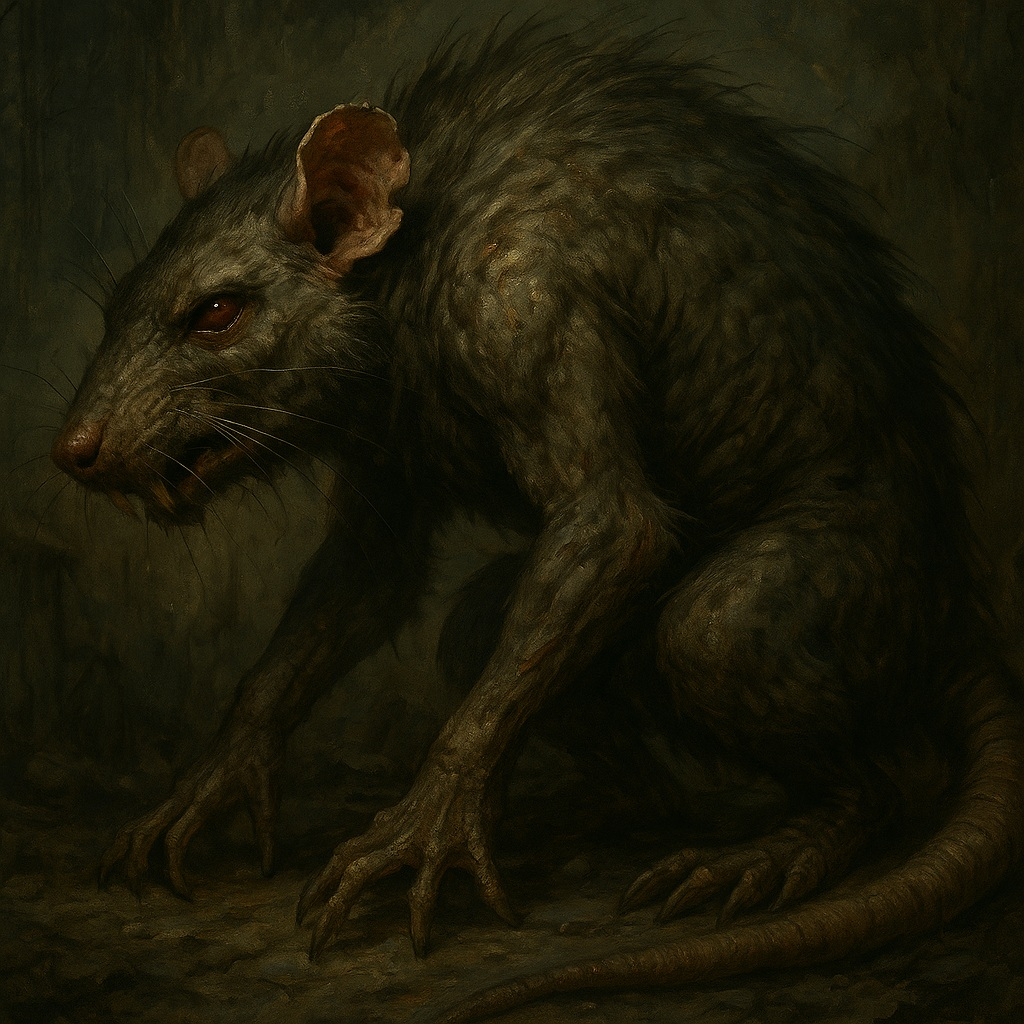
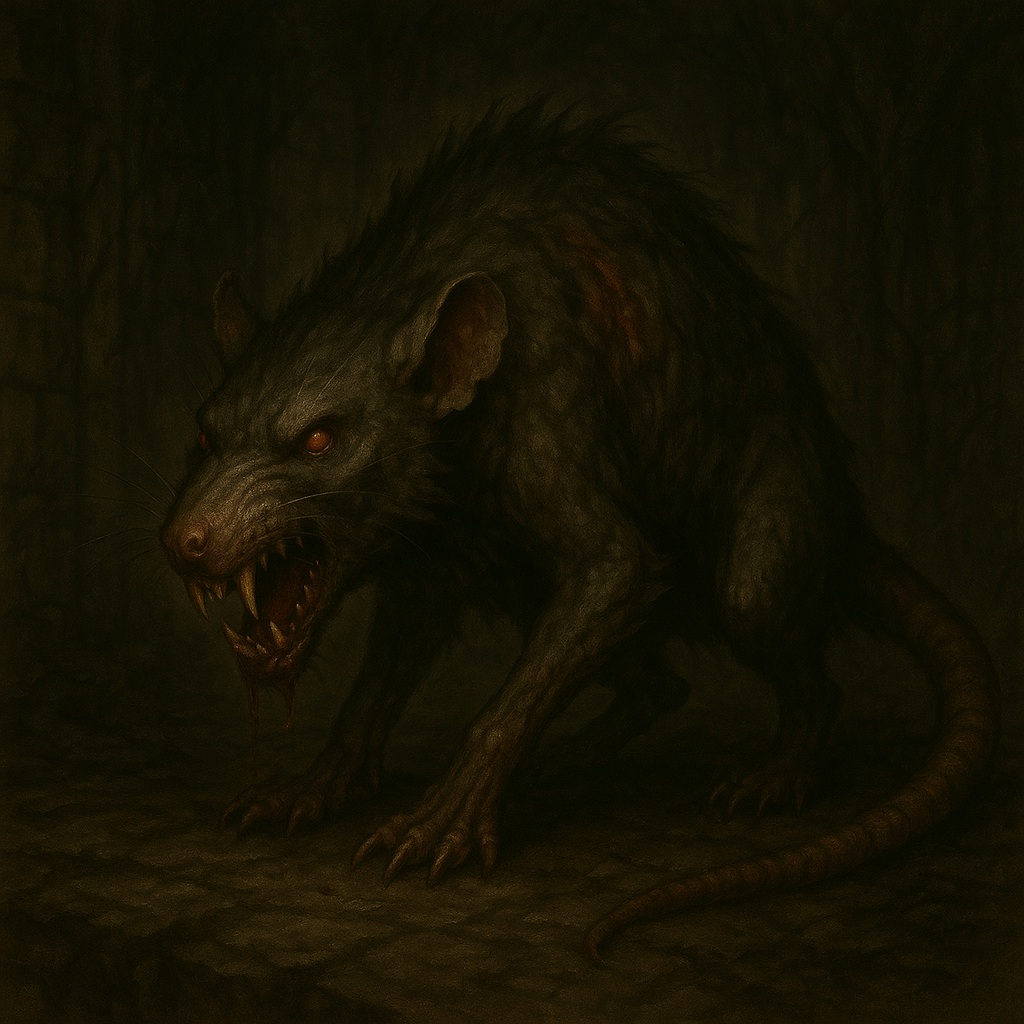
Add files via upload

diff --git a/locations.html b/locations.html
@@ -50,7 +50,7 @@
       <div>
         <h2>Morrowynn Forest</h2>
         <p>
-          A twisting sprawl of black pines and moss-slick stones.
+          Also named <strong>Ael Morath</strong> in old Kalendric. A twisting sprawl of black pines and moss-slick stones.
           Travelers vanish between the boles; only crows return.
         </p>
       </div>
@@ -66,9 +66,158 @@
         </p>
       </div>
     </section>
+
+    <section class="row">
+      <img src="img/vaelwynn_river.jpg" alt="Vaelwynn River">
+      <div>
+        <h2>Vaelwynn River</h2>
+        <p>
+          Coming Soon...
+        </p>
+      </div>
+    </section>
+
+    <section class="row">
+      <img src="img/ravendreach.jpg" alt="Ravendreach">
+      <div>
+        <h2>Ravendreach</h2>
+        <p>
+          Old Kalendric: <strong>Caer Ravnthirn</strong>.
+        </p>
+      </div>
+    </section>    
+
+    <section class="row">
+      <img src="img/the_bleak_reliquary.jpg" alt="The Bleak Reliquary">
+      <div>
+        <h2>The Bleak Reliquary</h2>
+        <p>
+          Coming Soon...
+        </p>
+      </div>
+    </section> 
+
+    <section class="row">
+      <img src="img/the_hushed_ruins.jpg" alt="The Hushed Ruins">
+      <div>
+        <h2>The Hushed Ruins</h2>
+        <p>
+          Coming Soon...
+        </p>
+      </div>
+    </section> 
+
+    <section class="row">
+      <img src="img/thirnwood.jpg" alt="Thirnwood">
+      <div>
+        <h2>Thirnwood</h2>
+        <p>
+          Coming Soon...
+        </p>
+      </div>
+    </section>
+
+    <section class="row">
+      <img src="img/the_stillbone_crypt.jpg" alt="The Stillbone Crypt">
+      <div>
+        <h2>The Stillbone Crypt</h2>
+        <p>
+          Old Kalendric: <strong>Thirn Vaelen</strong>.
+        </p>
+      </div>
+    </section>
+
+    <section class="row">
+      <img src="img/the_underreach.jpg" alt="The Underreach">
+      <div>
+        <h2>The Underreach</h2>
+        <p>
+          Old Kalendric: <strong>Thirn Vaelkor</strong>.
+        </p>
+      </div>
+    </section>
+
+    <section class="row">
+      <img src="img/pale_choir.jpg" alt="The Pale Choir">
+      <div>
+        <h2>The Pale Choir of Khaldreach</h2>
+        <p>
+          Old Kalendric: <strong>Khaldreach</strong>.
+        </p>
+      </div>
+    </section>
+
+    <section class="row">
+      <img src="img/the_thauren_spines.jpg" alt="The Thauren Spines">
+      <div>
+        <h2>The Thauren Spines</h2>
+        <p>
+          Coming Soon...
+        </p>
+      </div>
+    </section>
+
+    <section class="row">
+      <img src="img/korvhal_deep.jpg" alt="Korvhal Deep">
+      <div>
+        <h2>Korvhal Deep</h2>
+        <p>
+          Old Kalendric: <strong>Korvhal</strong>.
+        </p>
+      </div>
+    </section>
+
+    <section class="row">
+      <img src="img/aethervale.jpg" alt="Aethervale">
+      <div>
+        <h2>Aethervale</h2>
+        <p>
+          Coming Soon...
+        </p>
+      </div>
+    </section>
+
+    <section class="row">
+      <img src="img/wyrnshade.jpg" alt="Wyrnshade">
+      <div>
+        <h2>Wyrnshade</h2>
+        <p>
+          Coming Soon...
+        </p>
+      </div>
+    </section>
+
+    <section class="row">
+      <img src="img/skullhaven.jpg" alt="Skullhaven">
+      <div>
+        <h2>Skullhaven</h2>
+        <p>
+          Coming Soon...
+        </p>
+      </div>
+    </section>
+
+    <section class="row">
+      <img src="img/tir_volkaar.jpg" alt="Tir Volkaar">
+      <div>
+        <h2>Tir Volkaar</h2>
+        <p>
+          Old Kalendric: <strong>Tir Volkaar</strong>.
+        </p>
+      </div>
+    </section> 
+
+    <section class="row">
+      <img src="img/the_dawnsea.jpg" alt="The Dawnsea">
+      <div>
+        <h2>The Dawnsea</h2>
+        <p>
+          Coming Soon...
+        </p>
+      </div>
+    </section>
+
   </div>
-
-
   <footer>Shadows of Kalendale — KBOX Labs</footer>
 	
 <script>

diff --git a/monsters.html b/monsters.html
@@ -43,6 +43,36 @@
         </p>
       </div>
     </section>
+    
+    <section class="row">
+      <img src="img/dire_rat.jpg" alt="Dire Rat">
+      <div>
+        <h2>Dire Rat</h2>
+        <p>
+          The bigger, stronger, and more deadlier cousin to the giant rat.
+        </p>
+      </div>
+    </section>
+    
+    <section class="row">
+      <img src="img/savage_wolf.jpg" alt="Savage Wolf">
+      <div>
+        <h2>Savage Wolf</h2>
+        <p>
+          Savage Wolf.
+        </p>
+      </div>
+    </section>
+
+    <section class="row">
+      <img src="img/creeping_spider.jpg" alt="Creeping Spider">
+      <div>
+        <h2>Creeping Spider</h2>
+        <p>
+          If you don't have arachnaphobia now, you will after encoutering one of these.
+        </p>
+      </div>
+    </section>
 
     <section class="row">
       <img src="img/restless_skeleton.jpg" alt="Restless Skeleton">
